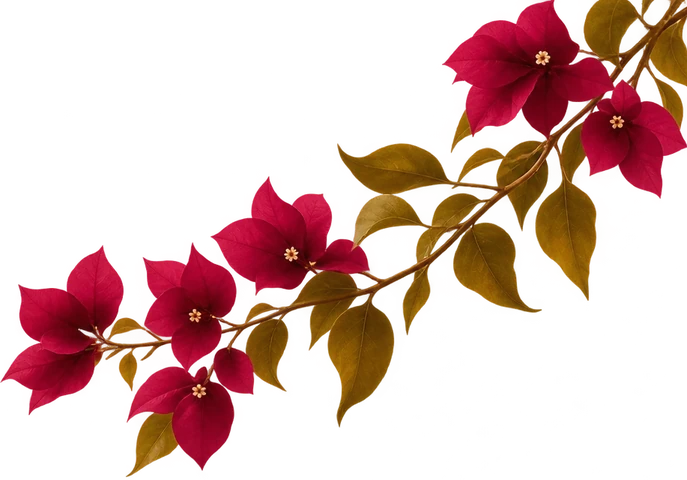
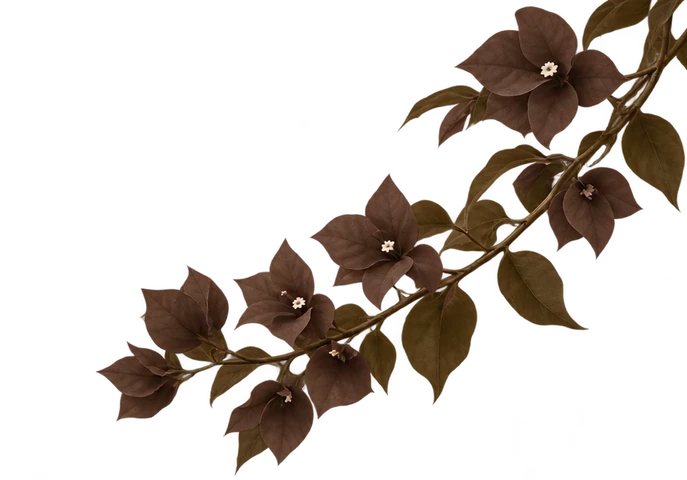
Use the brown bougainvillea and silk drape in the hero
Swaps in the supplied brown artwork to match the chocolate accents, and
softens the top of the drape so the feature labels above it stay
readable against the darker silk.

Claude-Session: https://claude.ai/code/session_013AmMkooaCNc19dzhFnrV4U

diff --git a/components/ShapeHero.tsx b/components/ShapeHero.tsx
@@ -174,7 +174,13 @@ export default function ShapeHero() {
           aria-hidden
           sizes="80vw"
           className="pointer-events-none absolute bottom-0 left-0 hidden w-[min(80vw,82rem)] lg:block"
-          style={{ maskImage: "linear-gradient(to right, #000 55%, transparent 96%)", WebkitMaskImage: "linear-gradient(to right, #000 55%, transparent 96%)" }}
+          style={{
+            // Fades out to the right, and softly at the top so the feature labels above stay readable.
+            maskImage: "linear-gradient(to right, #000 55%, transparent 96%), linear-gradient(to bottom, transparent 0%, rgba(0,0,0,0.35) 28%, #000 62%)",
+            WebkitMaskImage: "linear-gradient(to right, #000 55%, transparent 96%), linear-gradient(to bottom, transparent 0%, rgba(0,0,0,0.35) 28%, #000 62%)",
+            maskComposite: "intersect",
+            WebkitMaskComposite: "source-in",
+          }}
         />
         {/* Soft hand-over into the next section instead of a hard edge */}
         <div aria-hidden className="pointer-events-none absolute inset-x-0 bottom-0 h-28 bg-gradient-to-b from-transparent to-[#f1ebe3]" />
